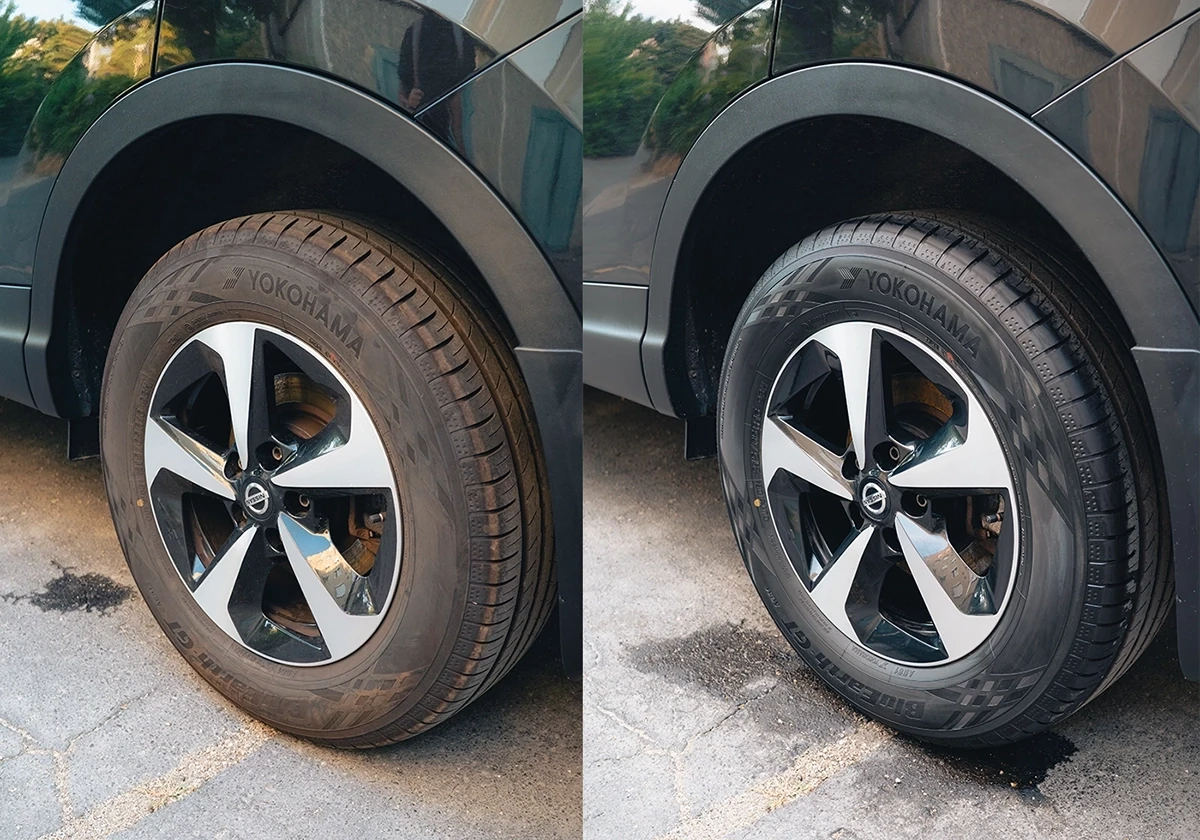
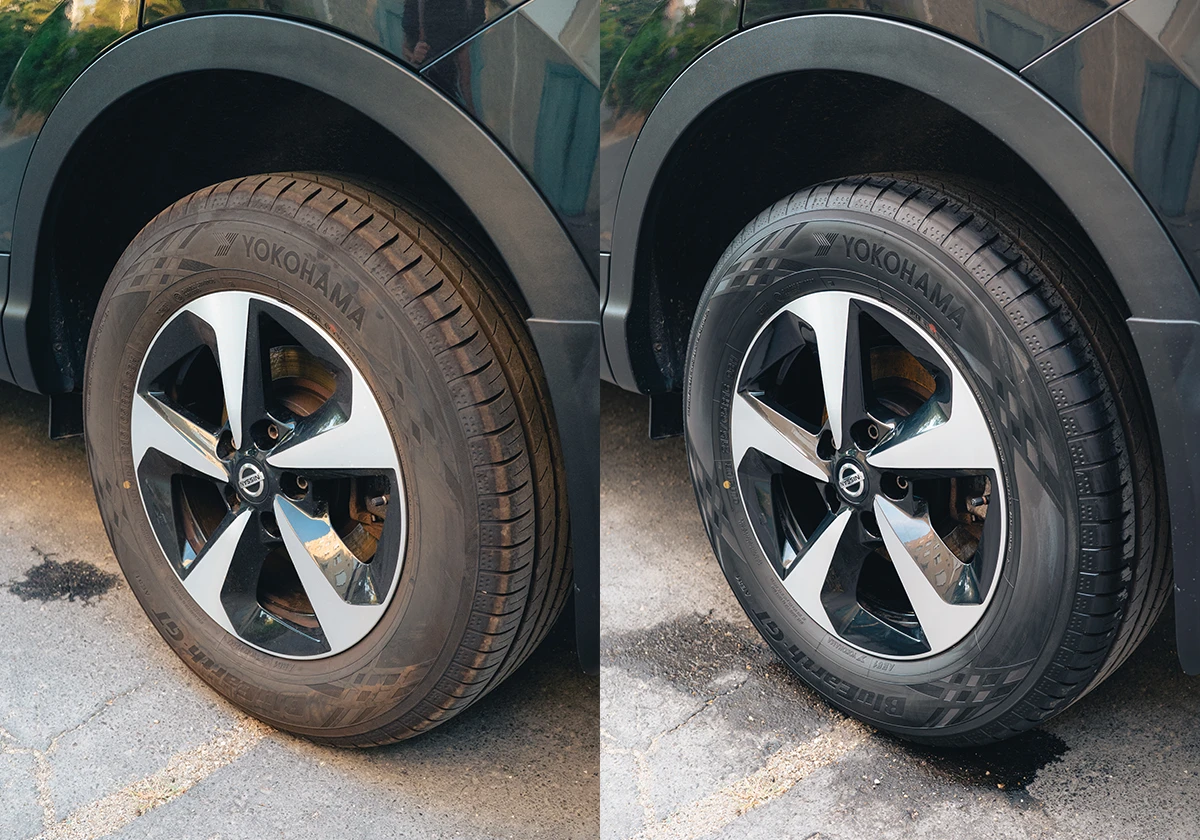
v1.0.5
Added new before-after pictures

diff --git a/src/index.html b/src/index.html
@@ -16,7 +16,7 @@ description: Tiszta, ápolt autó anélkül, hogy rámenne a fél napod. Mobil a
         <a class="button" href="#kapcsolat">Ingyenes állapotfelmérés</a>
         <a class="text-link" href="{{ site.contact.telephoneHref }}">{{ site.author.telephone }}</a>
       </div>
-      <p class="hero__note">Kérhetsz csak külső vagy csak belső takarítást is. Az ingyenes felmérés után helyben kapsz konkrét ajánlatot.</p>
+      <p class="hero__note">Kérhetsz csak külső vagy csak belső takarítást is, csak azt csinálom meg, amire tényleg szükséged van.</p>
     </div>
   </section>
 
@@ -139,13 +139,21 @@ description: Tiszta, ápolt autó anélkül, hogy rámenne a fél napod. Mobil a
       <section class="results" aria-labelledby="results-title">
         <h2 id="results-title" class="eyebrow">Előtte / utána</h2>
         <div class="before-after-grid">
-          <figure class="before-after-item">
+          <figure class="before-after-item before-after-item--mobile-hidden">
             <img class="before-after-image" src="/assets/images/before-after-01.webp" alt="Külső műanyag tisztítás előtt és után" width="1200" height="840" loading="lazy">
             <figcaption>Külső műanyag tisztítása és ápolása</figcaption>
           </figure>
           <figure class="before-after-item">
             <img class="before-after-image" src="/assets/images/before-after-02.webp" alt="Gumi tisztítás előtt és után" width="1200" height="840" loading="lazy">
             <figcaption>Gumi tisztítása és ápolása</figcaption>
+          </figure>
+          <figure class="before-after-item">
+            <img class="before-after-image" src="/assets/images/before-after-03.webp" alt="Hátsó lökhárító műanyag tisztítás előtt és után" width="1200" height="840" loading="lazy">
+            <figcaption>Hátsó lökhárító műanyagjának tisztítása és ápolása</figcaption>
+          </figure>
+          <figure class="before-after-item">
+            <img class="before-after-image" src="/assets/images/before-after-04.webp" alt="Felni és gumi tisztítás előtt és után" width="1200" height="840" loading="lazy">
+            <figcaption>Felni és gumi tisztítása, ápolása</figcaption>
           </figure>
         </div>
       </section>

diff --git a/src/assets/css/style.css b/src/assets/css/style.css
@@ -281,6 +281,8 @@ h4 {
 }
 .before-after-grid { display: grid; grid-template-columns: repeat(2, minmax(0, 1fr)); gap: 1rem; }
 .before-after-item { margin: 0; }
+.before-after-item--mobile-hidden,
+.before-after-item--tablet-hidden { display: block; }
 .before-after-item figcaption { margin-top: .55rem; color: var(--muted); font-size: .9rem; line-height: 1.35; }
 .before-after-image {
   display: block;
@@ -449,6 +451,7 @@ h4 {
 }
 
 @media (max-width: 950px) {
+  .before-after-item--tablet-hidden { display: none; }
   .site-header__phone { display: none; }
   .services__grid,
   .contact-layout,
@@ -462,6 +465,7 @@ h4 {
 }
 
 @media (max-width: 620px) {
+  .before-after-item--mobile-hidden { display: none; }
   body { font-size: 1rem; }
   .container,
   .container--narrow { width: min(calc(100% - 1.5rem), var(--max)); }
